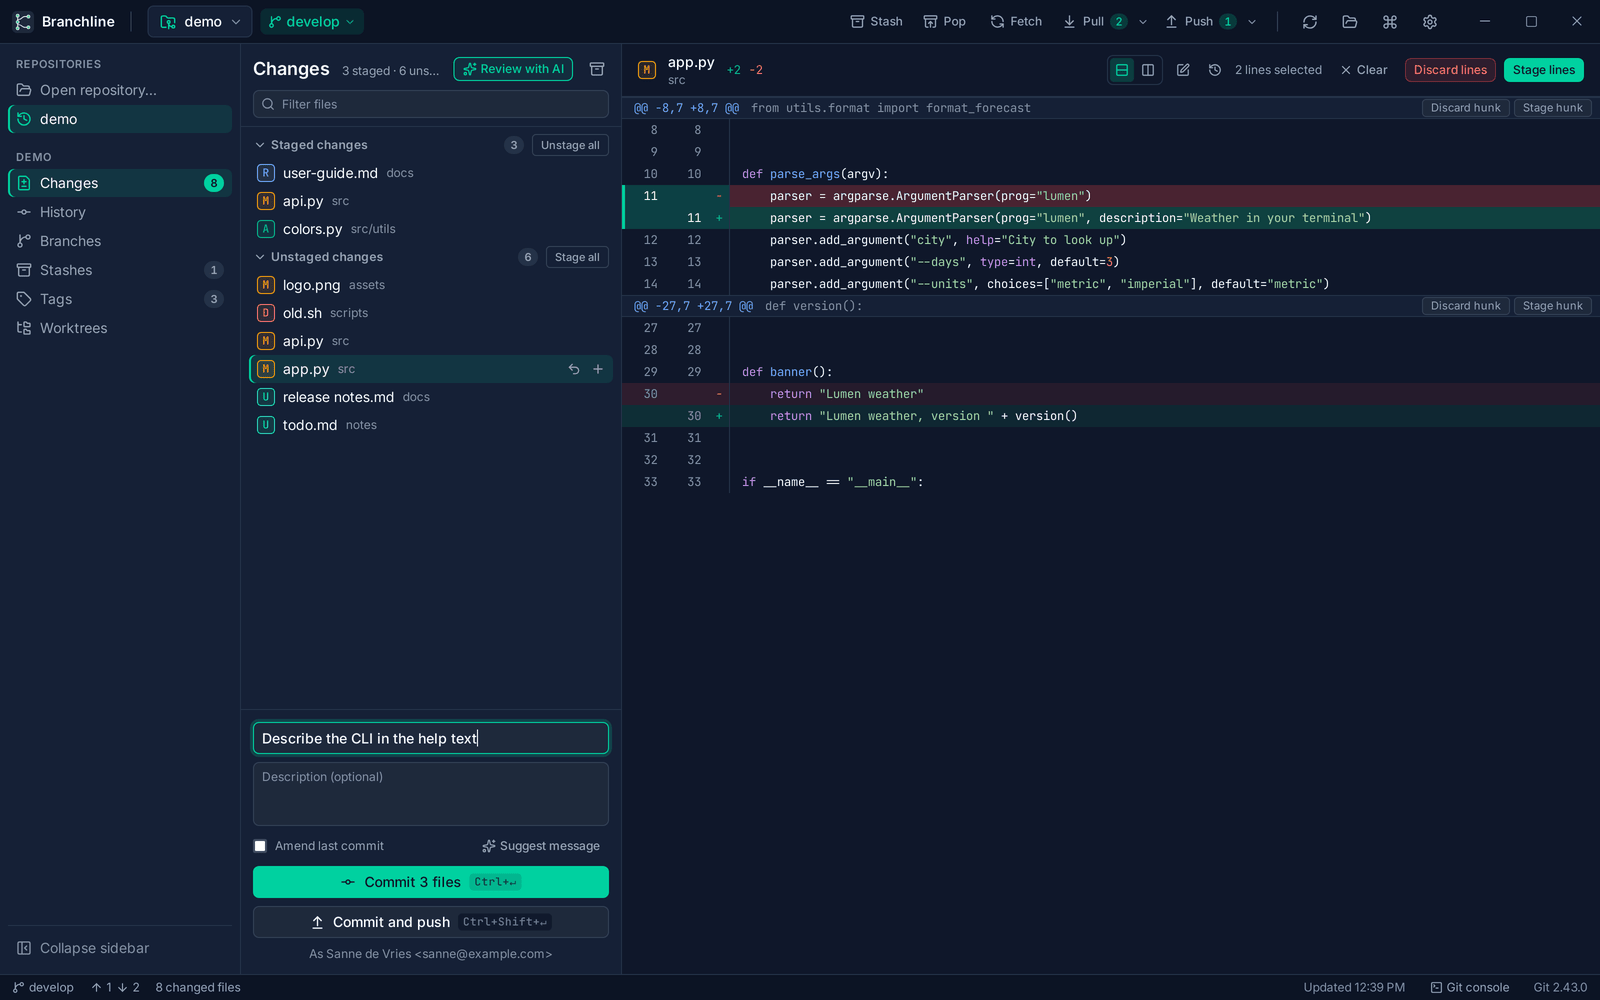
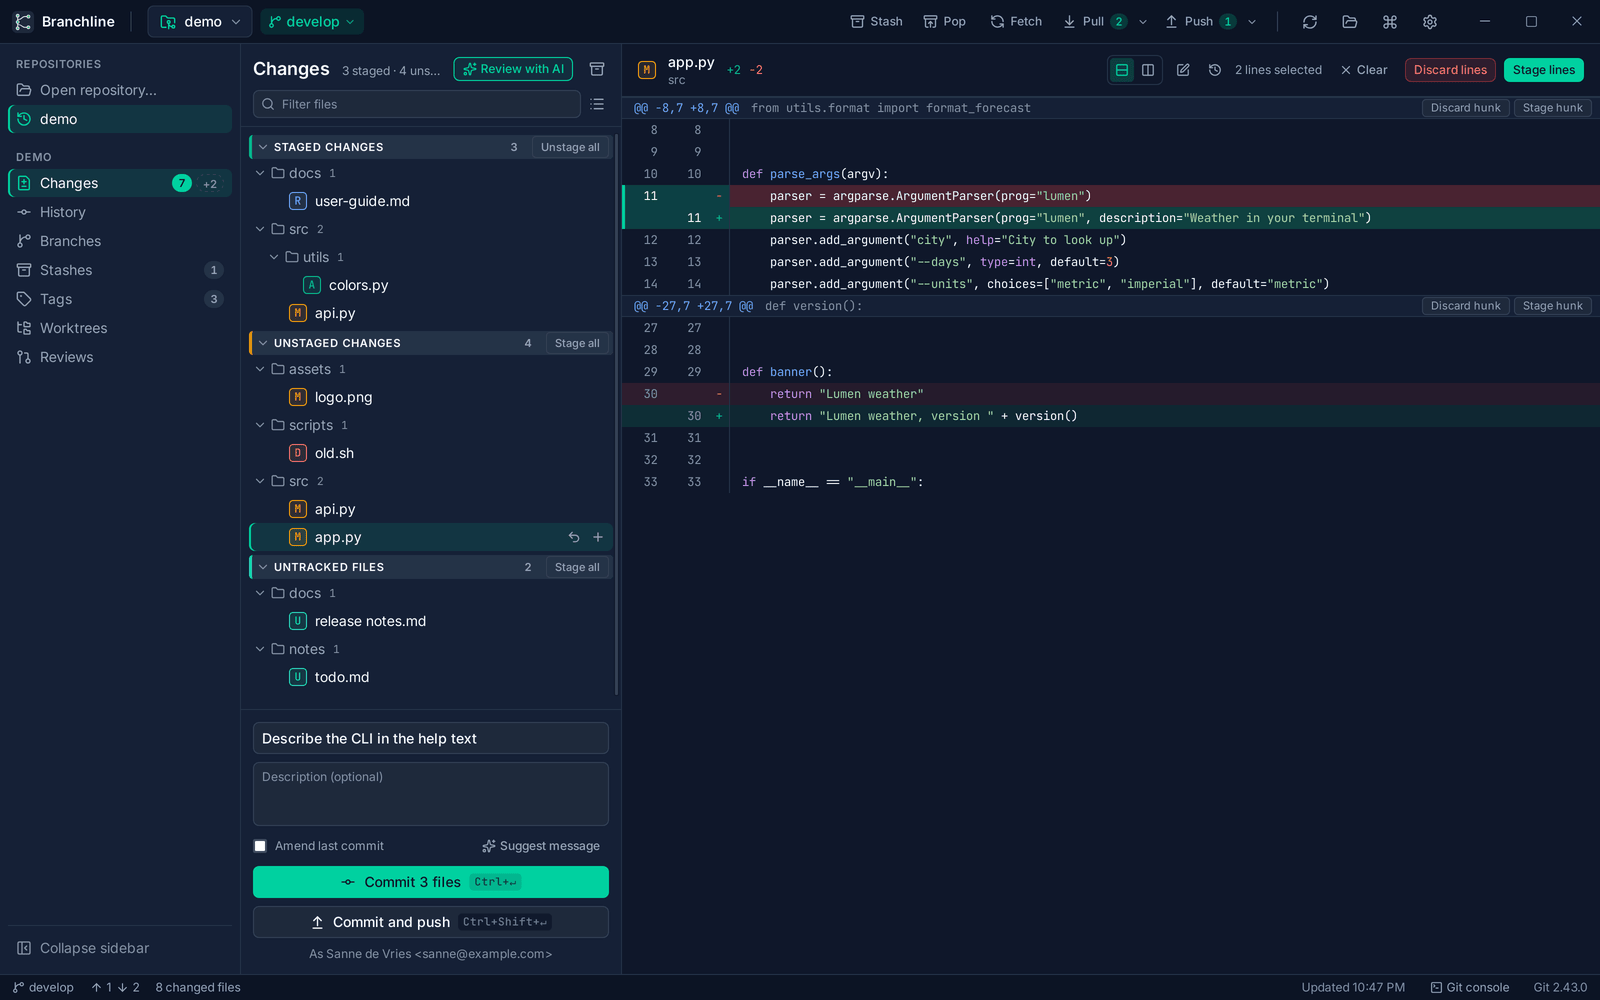
chore: release 0.4.0
- Bump version to 0.4.0
- Changelog for 0.4.0: commit actions in History (reset, edit message,
  move, drop), force push after a rewrite, tree view and untracked group
  in Changes, squash-merge aware branch cleanup
- README: describe the new features and add the commit menu screenshot
- Refresh screenshots for the updated UI

diff --git a/README.md b/README.md
@@ -7,7 +7,7 @@
 **See the flow of your code: a fast, friendly Git desktop client that shows what Git is
 doing and lets you do it with a click.**
 
-**Version 0.3.5** · [download](https://gitlab.com/bytefulminds/branchline/-/releases) for Windows, macOS and Linux
+**Version 0.4.0** · [download](https://gitlab.com/bytefulminds/branchline/-/releases) for Windows, macOS and Linux
 
 [![pipeline](https://gitlab.com/bytefulminds/branchline/badges/main/pipeline.svg)](https://gitlab.com/bytefulminds/branchline/-/pipelines)
 ![license: MIT](https://img.shields.io/badge/license-MIT-00D1A0)
@@ -34,11 +34,13 @@ Bytefulminds.
 ### Commit exactly what you mean
 
 Stage whole files, single hunks or just the lines you select, also of new files, and leave
-the rest for later. Diffs show your code in the colors of your editor, in one column or side by side, and the
-commit box tells you who you commit as before you press Ctrl+Enter.
+the rest for later. Your changes show as a list or as a tree of folders, so you can stage or
+discard a whole folder at once, and untracked files wait in a group of their own. Diffs show
+your code in the colors of your editor, in one column or side by side, and the commit box
+tells you who you commit as before you press Ctrl+Enter.
 
 <p align="center">
-  <img src="docs/screenshots/changes-lines.png" alt="The Changes view with two lines selected in a Python diff, ready to stage, and a commit message being written" width="49%">
+  <img src="docs/screenshots/changes-lines.png" alt="The Changes view as a tree of folders, with two lines selected in a Python diff, ready to stage, and a commit message being written" width="49%">
   <img src="docs/screenshots/diff-split.png" alt="A side-by-side diff of a Python file with syntax highlighting, removed lines on the left and added lines on the right" width="49%">
 </p>
 
@@ -60,20 +62,28 @@ branch left main. Click a branch in the graph to follow it through the history, 
 branches that were merged and deleted into their merge commit. Create, switch, merge and
 rebase branches from a right-click, or drag one branch onto another. Switch between your
 local and remote branches with one toggle, and "Clean up branches" removes local branches
-whose upstream is gone once every commit is on the remote, with Undo; branches you never
-published stay. Tidy up before you push with "Rewrite history": Branchline finds where your
-branch started, you drag commits into a new order and reword, squash or drop them, and
-squashed commits are shown grouped under the commit they go into. With AI on, it can suggest
-which commits belong together and write their messages.
+whose upstream is gone once every commit is on the remote, also after a squash merge, with
+Undo; branches with commits only on your computer are kept unless you tick them. Right-click
+a commit to reset your branch to it (soft, mixed or hard), edit its message, move it up or
+down, or drop it, or select several commits and drop them at once. Tidy up before you push
+with "Rewrite history": Branchline finds where your branch started, you drag commits into a
+new order and reword, squash or drop them, and squashed commits are shown grouped under the
+commit they go into. With AI on, it can suggest which commits belong together and write
+their messages. After you rewrite a branch you already pushed, Push turns into a force push
+that never overwrites commits someone else pushed in the meantime.
 
 <p align="center">
   <img src="docs/screenshots/branches.png" alt="The local branches with a branch menu open: switch, open in a new worktree, merge, rebase, push, rename and delete" width="49%">
-  <img src="docs/screenshots/branch-cleanup.png" alt="Clean up branches: two branches whose upstream was deleted are ready to delete, two with commits only on this computer are kept" width="49%">
+  <img src="docs/screenshots/branch-cleanup.png" alt="Clean up branches: two branches whose upstream was deleted are ready to delete, one of them squashed into main, and a branch with a commit only on this computer is kept unless you tick it" width="49%">
+</p>
+
+<p align="center">
+  <img src="docs/screenshots/commit-menu.png" alt="The menu of a commit in History with Reset develop to this commit open, offering soft, mixed and hard, next to edit message, move up, move down and drop" width="49%">
+  <img src="docs/screenshots/rebase.png" alt="Rewrite history with an AI suggestion: two groups of fixed-up commits, each indented above the commit they go into, with a new message" width="49%">
 </p>
 
 <p align="center">
   <img src="docs/screenshots/graph-follow.png" alt="Following main in the graph: its line and commits stay bright, the rest fades, and a merged branch is folded into its merge with +1" width="49%">
-  <img src="docs/screenshots/rebase.png" alt="Rewrite history with an AI suggestion: two groups of fixed-up commits, each indented above the commit they go into, with a new message" width="49%">
 </p>
 
 ### Conflicts without the fear

diff --git a/CHANGELOG.md b/CHANGELOG.md
@@ -7,6 +7,14 @@ description on GitLab.
 
 ## [Unreleased]
 
+## [0.4.0] - 2026-11-21
+
+History becomes a place to tidy up your branch: reset it to a commit, edit a message, move a
+commit up or down, or drop one or several, straight from the commit menu. After rewriting a
+pushed branch, Push turns into a force push that never overwrites what someone else pushed.
+Changes shows your files as a tree of folders that you can stage at once, with untracked files
+in a group of their own, and Clean up branches now recognizes squash-merged branches.
+
 ### Added
 
 - Drop a commit from the History menu: it is removed from the current branch and the commits
